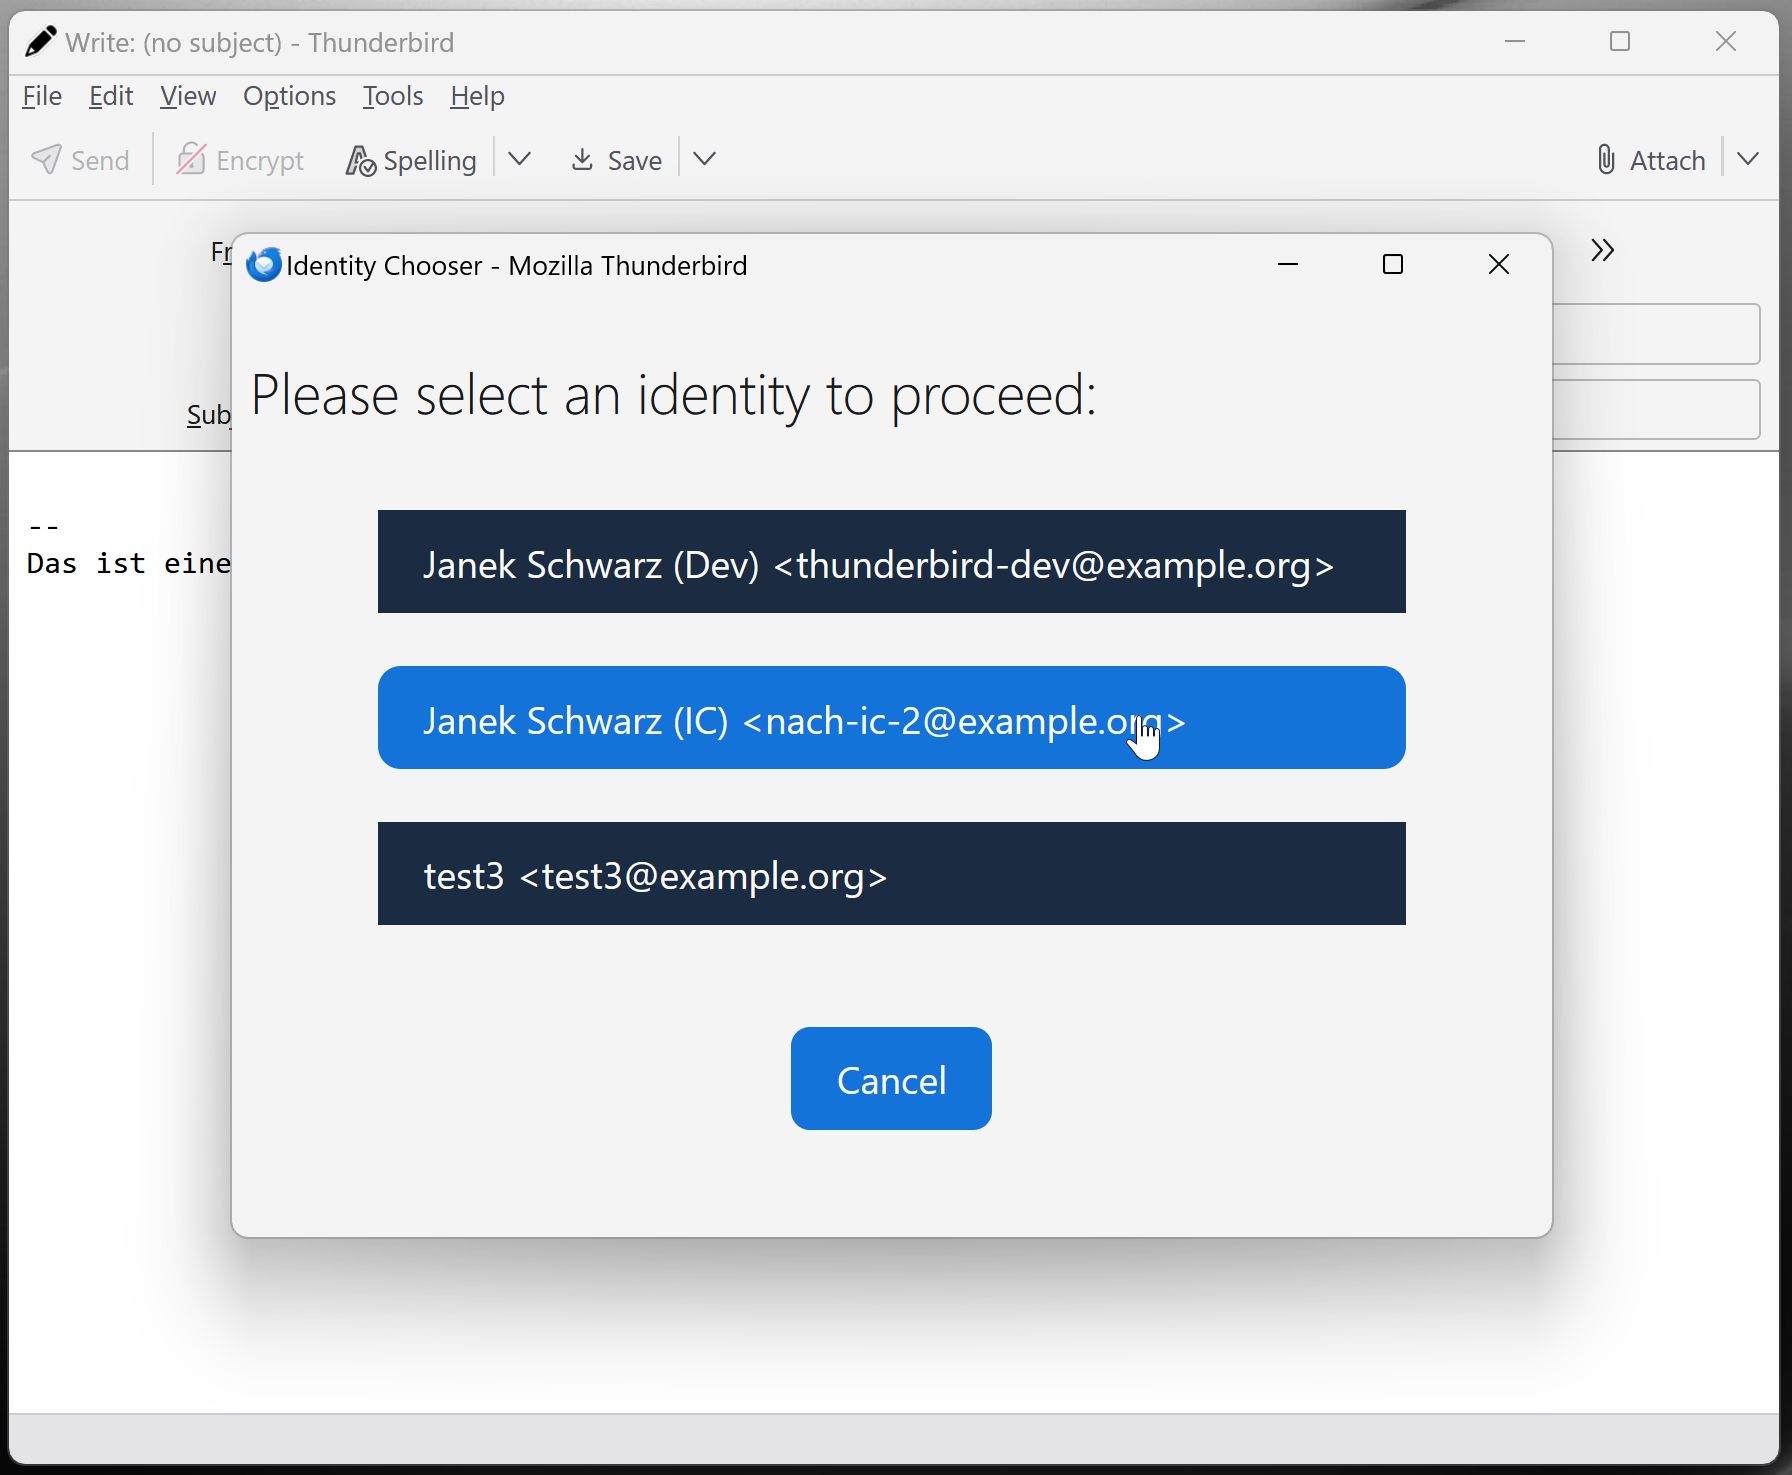
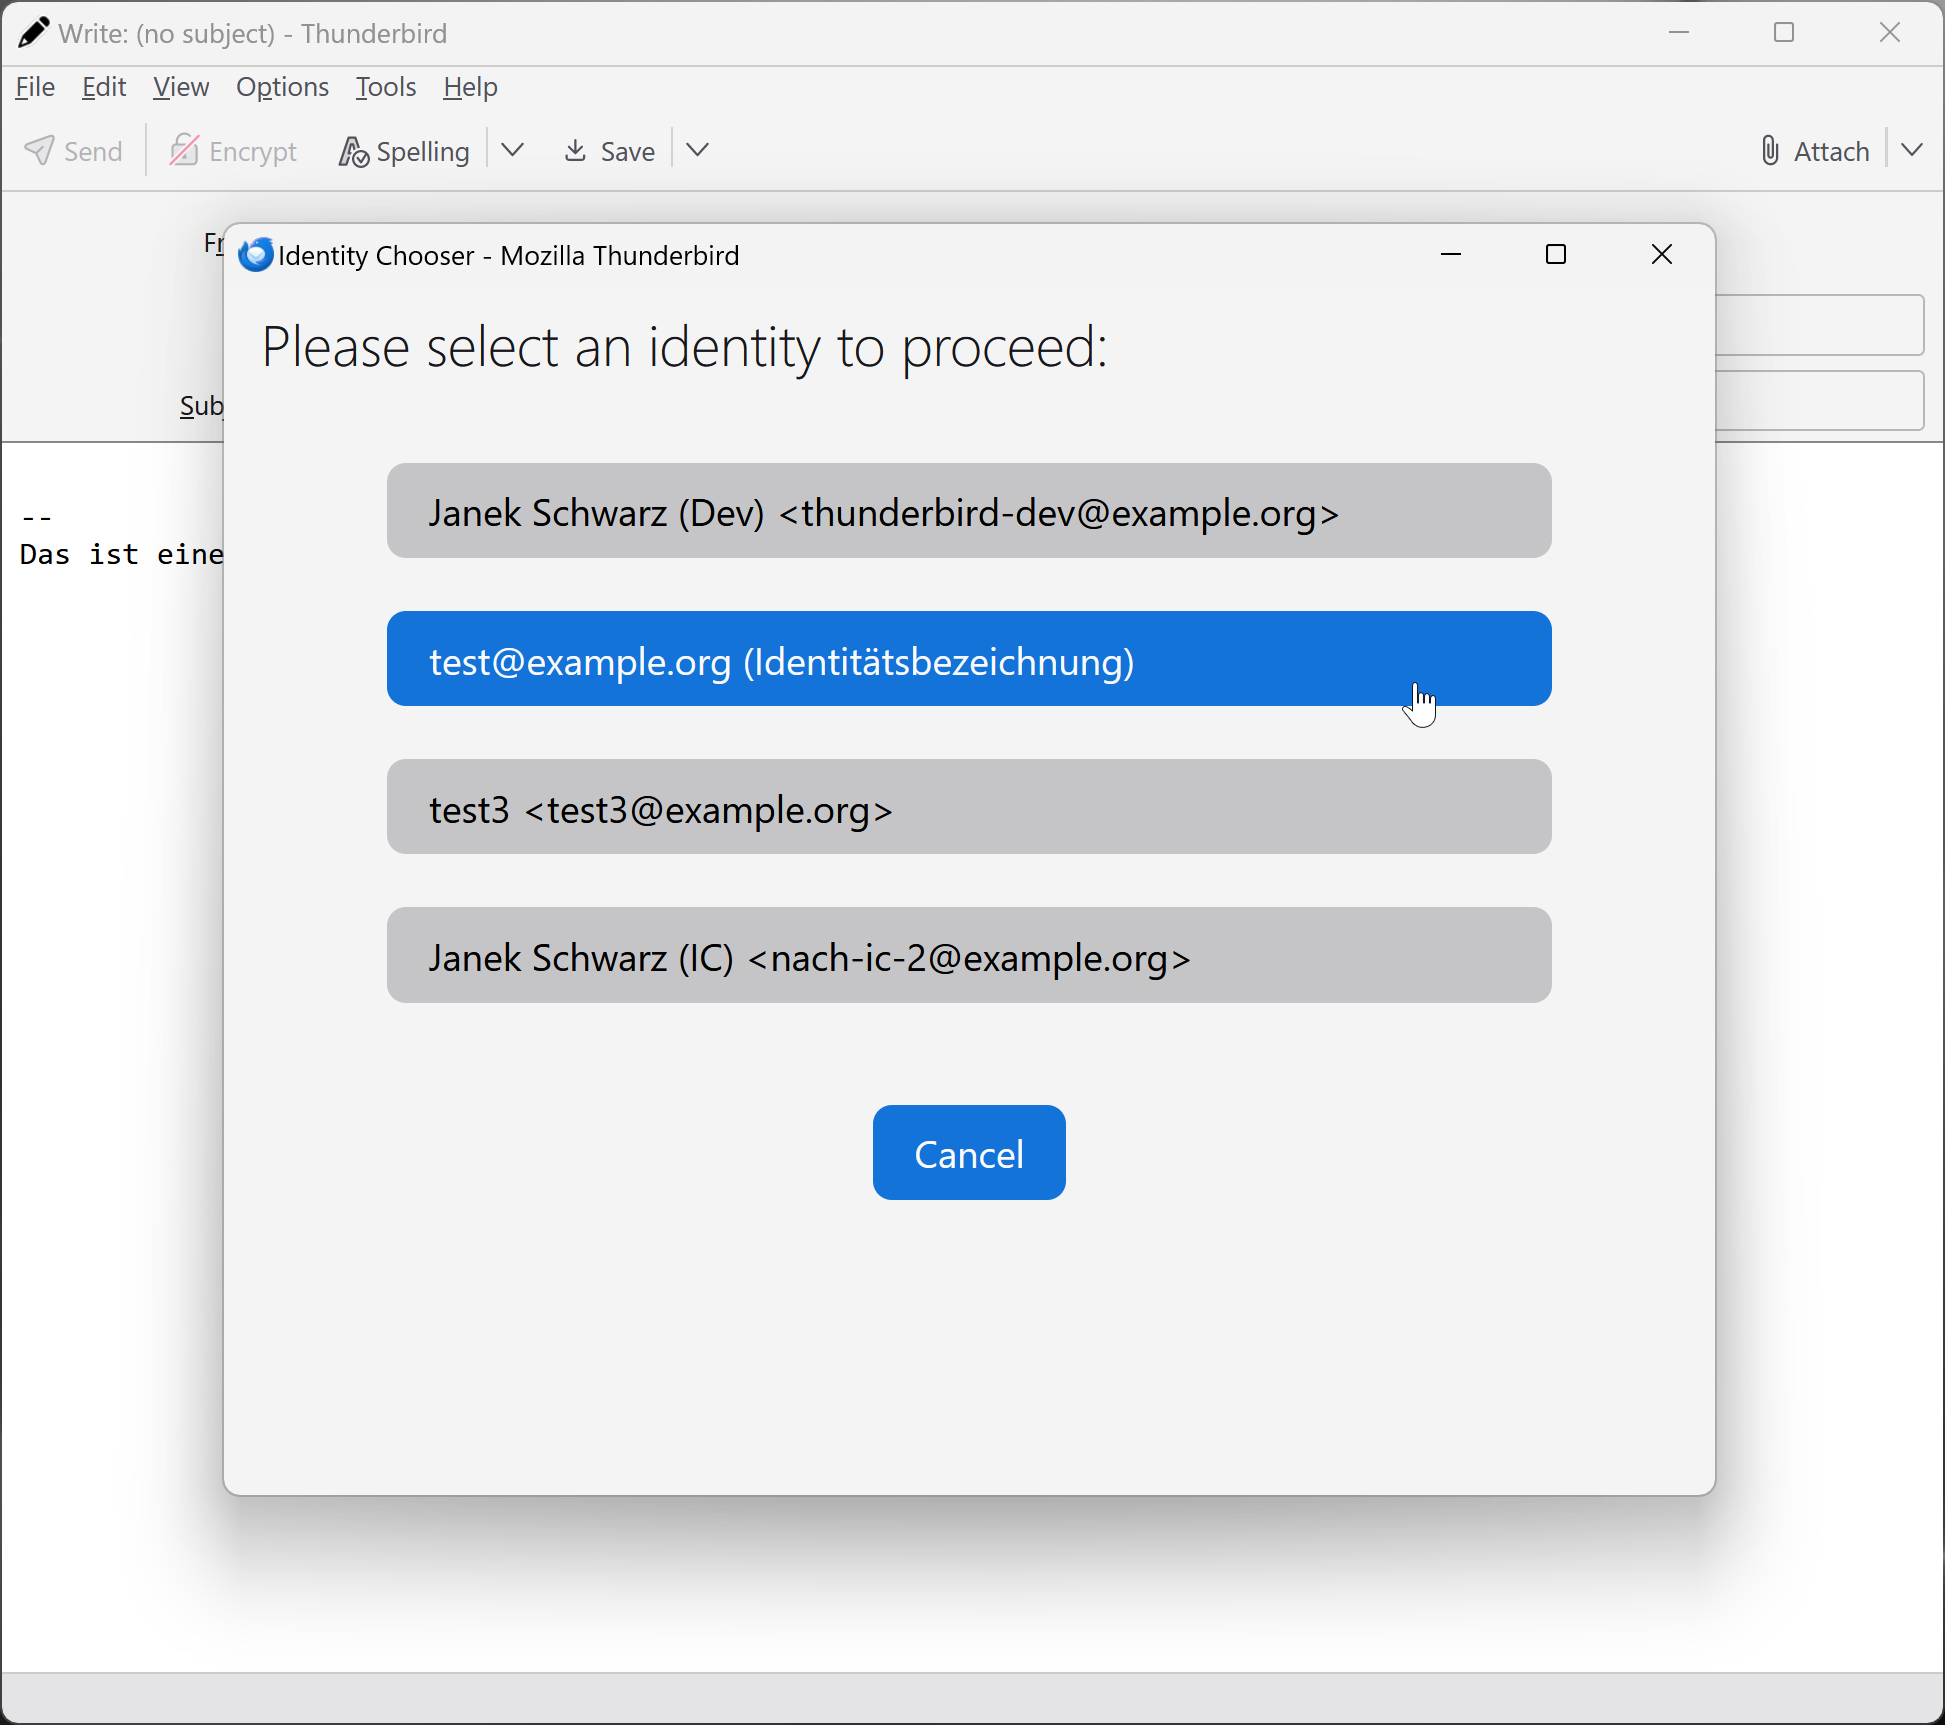
MOD: Modified styles and updated screen shot.

Changed region(s): [[0.0, 0.0, 1.0, 1.0], [0.875, 0.1559, 0.9062, 0.2183]]

diff --git a/identitypopup/popup.css b/identitypopup/popup.css
@@ -6,9 +6,13 @@
     --menu-background-color: rgb(244, 244, 245);
     --menu-font: message-box;
     --menu-font-size: 1rem;
-    --button-color: rgb(250, 250, 250);
-    --button-background: #1b2c42;
+    --button-color: rgb(0, 0, 0);
+    --button-background: rgb(197, 197, 199);
+    --button-focus-color: rgb(250, 250, 250);
     --button-focus-background: rgb(19, 115, 217);
+    --button-cancel-color: rgb(250, 250, 250);
+    --button-cancel-button-background: rgb(19, 115, 217);
+    --button-cancel-button-hover-background: rgb(28, 131, 228);
     --bullet-color: rgb(250, 250, 250);
   }
 }
@@ -21,7 +25,12 @@
     --menu-font-size: 1rem;
     --button-color: rgb(250, 250, 250);
     --button-background: rgb(110, 110, 114);
+    --button-focus-color: rgb(250, 250, 250);
     --button-focus-background: rgb(19, 115, 217);
+    --button-cancel-color: rgb(250, 250, 250);
+    --button-cancel-button-background: rgb(19, 115, 217);
+    --button-cancel-button-hover-background: rgb(28, 131, 228);
+
     --bullet-color: rgb(250, 250, 250);
   }
 }
@@ -108,19 +117,19 @@ button:hover,
 button:focus {
   border-radius: 0.5em;
   background-color: var(--button-focus-background);
-  color: var(--button-color);
+  color: var(--button-focus-color);
 }
 
 button#cancel {
   margin: 1em auto;
   border-radius:0.5em !important;
   margin: 1em auto;
-  background-color: var(--button-primary-background-color, rgb(19, 115, 217));
-  color: var(--button-color);
+  background-color: var(--button-cancel-button-background);
+  color: var(--button-cancel-color);
 }
 button#cancel:hover {
-  background-color: var(--button-primary-hover-background-color, rgb(28, 131, 228));
-  color: var(--button-color);
+  background-color: var(--button-cancel-button-hover-background);
+  color: var(--button-cancel-color);
 }
 
 #bottomRow {
